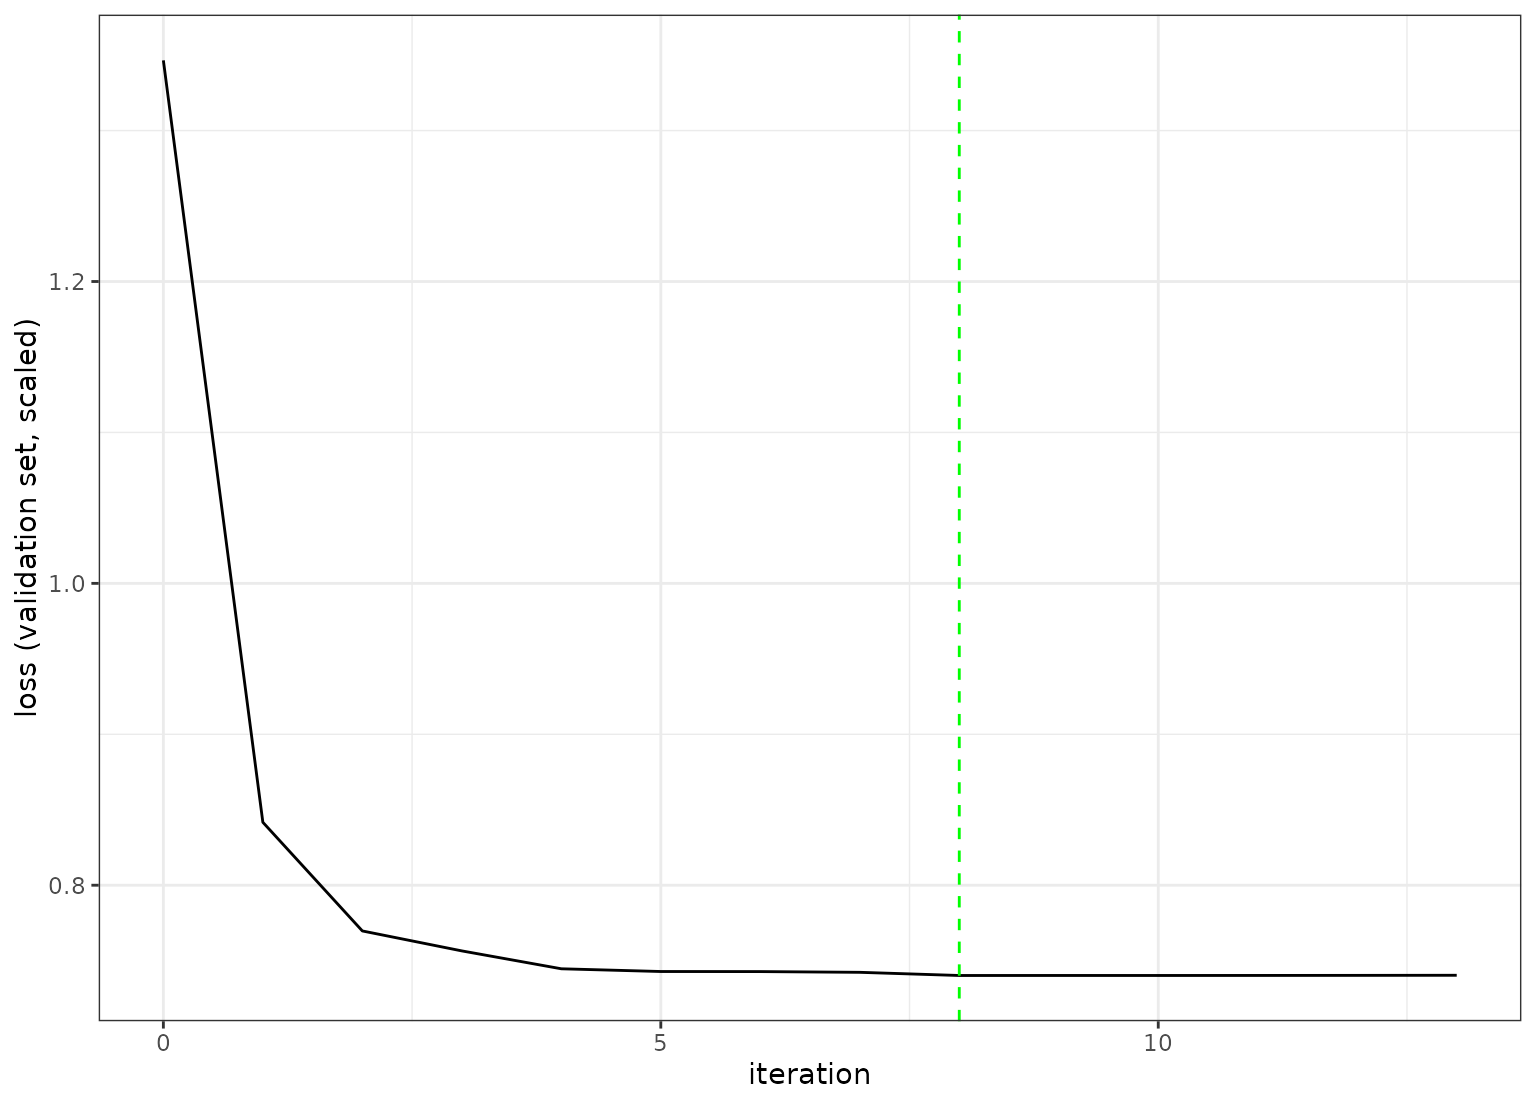
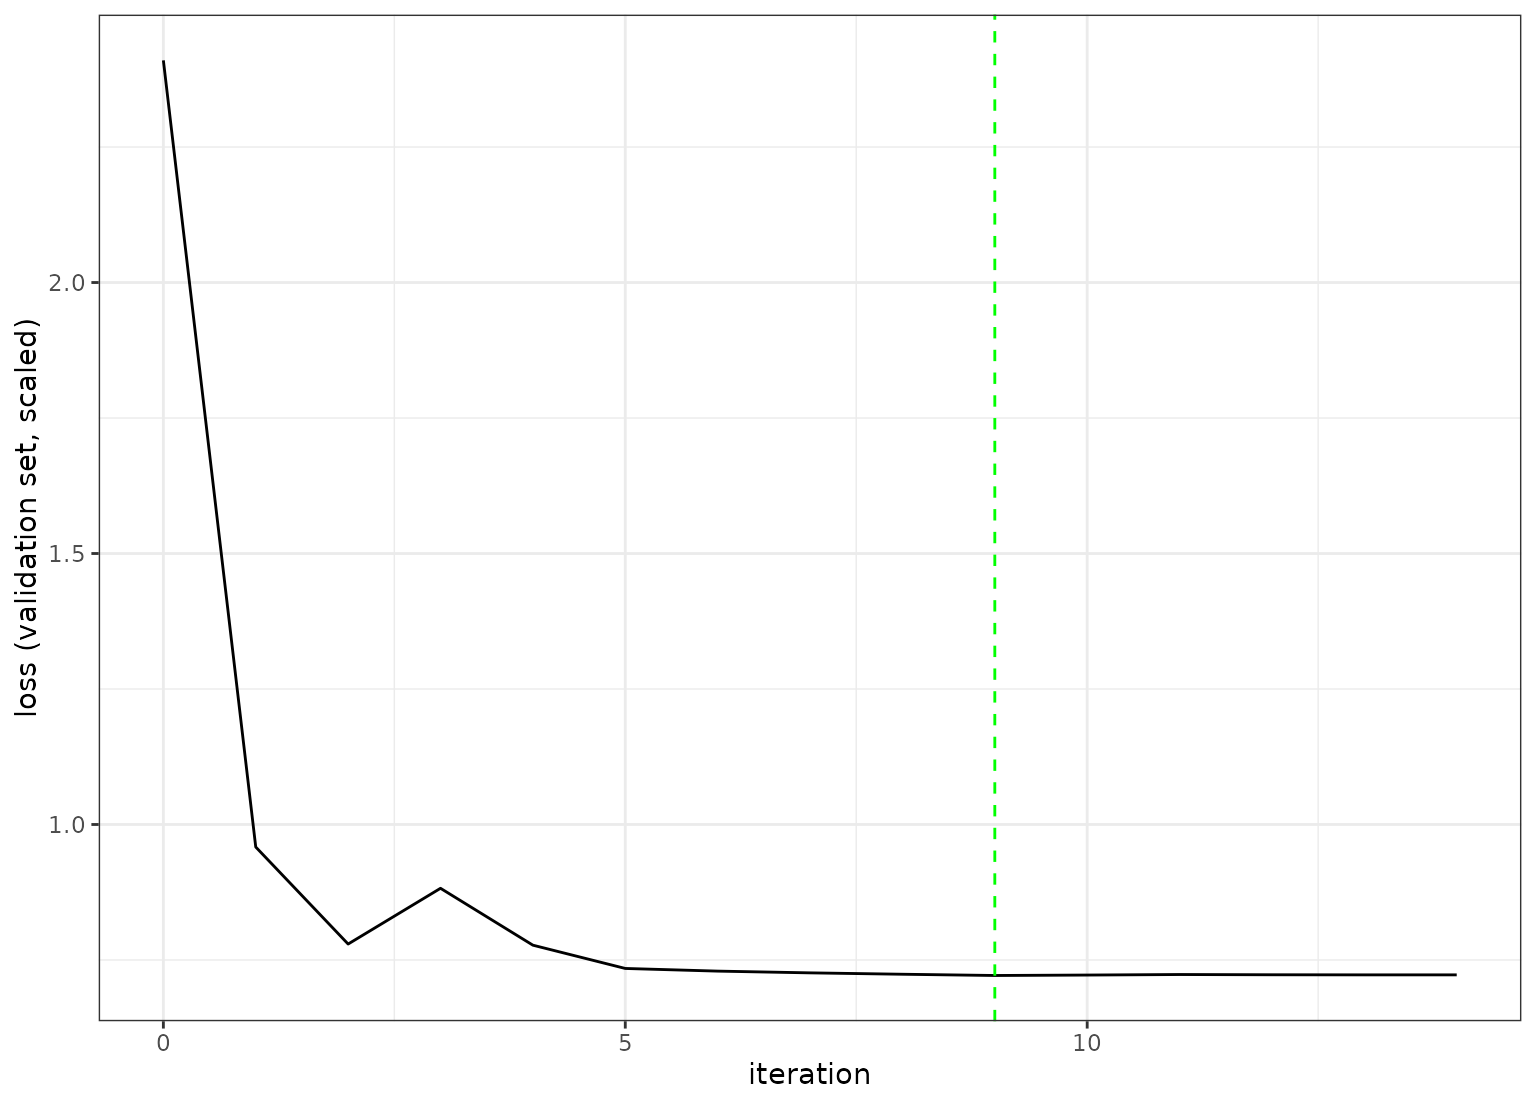
Deploying to gh-pages from @ tidymodels/brulee@075b80f6621c965b2db66e2a66ebcdbf1e8842ae 🚀

diff --git a/reference/brulee_saint.html b/reference/brulee_saint.html
@@ -491,32 +491,23 @@ arXiv:2106.01342.</p>
 <span class="r-in"><span>  <span class="fu"><a href="https://yardstick.tidymodels.org/reference/rsq.html" class="external-link">rsq</a></span><span class="op">(</span><span class="va">outcome</span>, <span class="va">.pred</span><span class="op">)</span></span></span>
 <span class="r-in"><span></span></span>
 <span class="r-in"><span><span class="op">}</span></span></span>
-<span class="r-msg co"><span class="r-pr">#&gt;</span> epoch: 00, learn rate: 0.01, Loss (scaled): 0.559</span>
-<span class="r-msg co"><span class="r-pr">#&gt;</span> epoch: 01, learn rate: 0.01, Loss (scaled): 0.299</span>
-<span class="r-msg co"><span class="r-pr">#&gt;</span> epoch: 02, learn rate: 0.01, Loss (scaled): 0.304</span>
-<span class="r-msg co"><span class="r-pr">#&gt;</span> epoch: 03, learn rate: 0.01, Loss (scaled): 0.461</span>
-<span class="r-msg co"><span class="r-pr">#&gt;</span> epoch: 04, learn rate: 0.01, Loss (scaled): 0.424</span>
-<span class="r-msg co"><span class="r-pr">#&gt;</span> epoch: 05, learn rate: 0.01, Loss (scaled): 0.29</span>
-<span class="r-msg co"><span class="r-pr">#&gt;</span> epoch: 06, learn rate: 0.01, Loss (scaled): 0.349</span>
-<span class="r-msg co"><span class="r-pr">#&gt;</span> epoch: 07, learn rate: 0.01, Loss (scaled): 0.298</span>
-<span class="r-msg co"><span class="r-pr">#&gt;</span> epoch: 08, learn rate: 0.01, Loss (scaled): 0.401</span>
-<span class="r-msg co"><span class="r-pr">#&gt;</span> epoch: 09, learn rate: 0.01, Loss (scaled): 0.348</span>
-<span class="r-msg co"><span class="r-pr">#&gt;</span> epoch: 10, learn rate: 0.01, Loss (scaled): 0.268</span>
-<span class="r-msg co"><span class="r-pr">#&gt;</span> epoch: 11, learn rate: 0.01, Loss (scaled): 0.267</span>
-<span class="r-msg co"><span class="r-pr">#&gt;</span> epoch: 12, learn rate: 0.01, Loss (scaled): 0.341</span>
-<span class="r-msg co"><span class="r-pr">#&gt;</span> epoch: 13, learn rate: 0.01, Loss (scaled): 0.23</span>
-<span class="r-msg co"><span class="r-pr">#&gt;</span> epoch: 14, learn rate: 0.01, Loss (scaled): 0.401</span>
+<span class="r-msg co"><span class="r-pr">#&gt;</span> epoch: 00, learn rate: 0.01, Loss (scaled): 0.325</span>
+<span class="r-msg co"><span class="r-pr">#&gt;</span> epoch: 01, learn rate: 0.01, Loss (scaled): 0.622</span>
+<span class="r-msg co"><span class="r-pr">#&gt;</span> epoch: 02, learn rate: 0.01, Loss (scaled): 0.271</span>
+<span class="r-msg co"><span class="r-pr">#&gt;</span> epoch: 03, learn rate: 0.01, Loss (scaled): 0.325</span>
+<span class="r-msg co"><span class="r-pr">#&gt;</span> epoch: 04, learn rate: 0.01, Loss (scaled): 0.283</span>
+<span class="r-msg co"><span class="r-pr">#&gt;</span> epoch: 05, learn rate: 0.01, Loss (scaled): 0.265</span>
+<span class="r-msg co"><span class="r-pr">#&gt;</span> epoch: 06, learn rate: 0.01, Loss (scaled): 0.287</span>
+<span class="r-msg co"><span class="r-pr">#&gt;</span> epoch: 07, learn rate: 0.01, Loss (scaled): 0.294</span>
+<span class="r-msg co"><span class="r-pr">#&gt;</span> epoch: 08, learn rate: 0.01, Loss (scaled): 0.278</span>
+<span class="r-msg co"><span class="r-pr">#&gt;</span> epoch: 09, learn rate: 0.01, Loss (scaled): 0.227</span>
+<span class="r-msg co"><span class="r-pr">#&gt;</span> epoch: 10, learn rate: 0.01, Loss (scaled): 0.302</span>
+<span class="r-msg co"><span class="r-pr">#&gt;</span> epoch: 11, learn rate: 0.01, Loss (scaled): 0.2</span>
+<span class="r-msg co"><span class="r-pr">#&gt;</span> epoch: 12, learn rate: 0.01, Loss (scaled): 0.277</span>
+<span class="r-msg co"><span class="r-pr">#&gt;</span> epoch: 13, learn rate: 0.01, Loss (scaled): 0.268</span>
+<span class="r-msg co"><span class="r-pr">#&gt;</span> epoch: 14, learn rate: 0.01, Loss (scaled): 1.06</span>
 <span class="r-msg co"><span class="r-pr">#&gt;</span> epoch: 15, learn rate: 0.01, Loss (scaled): 0.288</span>
-<span class="r-msg co"><span class="r-pr">#&gt;</span> epoch: 16, learn rate: 0.01, Loss (scaled): 0.198</span>
-<span class="r-msg co"><span class="r-pr">#&gt;</span> epoch: 17, learn rate: 0.01, Loss (scaled): 0.638</span>
-<span class="r-msg co"><span class="r-pr">#&gt;</span> epoch: 18, learn rate: 0.01, Loss (scaled): 0.398</span>
-<span class="r-msg co"><span class="r-pr">#&gt;</span> epoch: 19, learn rate: 0.01, Loss (scaled): 0.167</span>
-<span class="r-msg co"><span class="r-pr">#&gt;</span> epoch: 20, learn rate: 0.01, Loss (scaled): 0.165</span>
-<span class="r-msg co"><span class="r-pr">#&gt;</span> epoch: 21, learn rate: 0.01, Loss (scaled): 0.31</span>
-<span class="r-msg co"><span class="r-pr">#&gt;</span> epoch: 22, learn rate: 0.01, Loss (scaled): 0.25</span>
-<span class="r-msg co"><span class="r-pr">#&gt;</span> epoch: 23, learn rate: 0.01, Loss (scaled): 0.397</span>
-<span class="r-msg co"><span class="r-pr">#&gt;</span> epoch: 24, learn rate: 0.01, Loss (scaled): 0.747</span>
-<span class="r-msg co"><span class="r-pr">#&gt;</span> epoch: 25, learn rate: 0.01, Loss (scaled): 0.233</span>
+<span class="r-msg co"><span class="r-pr">#&gt;</span> epoch: 16, learn rate: 0.01, Loss (scaled): 0.234</span>
 <span class="r-out co"><span class="r-pr">#&gt;</span> <span style="font-weight: bold;">SAINT architecture</span></span>
 <span class="r-out co"><span class="r-pr">#&gt;</span> inputs: 8 (0 categorical, 8 numeric) | output dim: 1</span>
 <span class="r-out co"><span class="r-pr">#&gt;</span> attention: both | embedding dim: 3</span>
@@ -581,7 +572,7 @@ arXiv:2106.01342.</p>
 <span class="r-out co"><span class="r-pr">#&gt;</span> <span style="color: #949494;"># A tibble: 1 × 3</span></span>
 <span class="r-out co"><span class="r-pr">#&gt;</span>   .metric .estimator .estimate</span>
 <span class="r-out co"><span class="r-pr">#&gt;</span>   <span style="color: #949494; font-style: italic;">&lt;chr&gt;</span>   <span style="color: #949494; font-style: italic;">&lt;chr&gt;</span>          <span style="color: #949494; font-style: italic;">&lt;dbl&gt;</span></span>
-<span class="r-out co"><span class="r-pr">#&gt;</span> <span style="color: #BCBCBC;">1</span> rsq     standard       0.540</span>
+<span class="r-out co"><span class="r-pr">#&gt;</span> <span style="color: #BCBCBC;">1</span> rsq     standard       0.557</span>
 <span class="r-in"><span><span class="co"># }</span></span></span>
 </code></pre></div>
     </div>

diff --git a/reference/predict.brulee_auto_int.html b/reference/predict.brulee_auto_int.html
@@ -102,16 +102,16 @@ to be the same as the number of rows in <code>new_data</code>.</p>
 <span class="r-out co"><span class="r-pr">#&gt;</span> <span style="color: #949494;"># A tibble: 50 × 2</span></span>
 <span class="r-out co"><span class="r-pr">#&gt;</span>    .pred_class_1 .pred_class_2</span>
 <span class="r-out co"><span class="r-pr">#&gt;</span>            <span style="color: #949494; font-style: italic;">&lt;dbl&gt;</span>         <span style="color: #949494; font-style: italic;">&lt;dbl&gt;</span></span>
-<span class="r-out co"><span class="r-pr">#&gt;</span> <span style="color: #BCBCBC;"> 1</span>      0.799        0.201    </span>
-<span class="r-out co"><span class="r-pr">#&gt;</span> <span style="color: #BCBCBC;"> 2</span>      0.991        0.008<span style="text-decoration: underline;">78</span>  </span>
-<span class="r-out co"><span class="r-pr">#&gt;</span> <span style="color: #BCBCBC;"> 3</span>      0.207        0.793    </span>
-<span class="r-out co"><span class="r-pr">#&gt;</span> <span style="color: #BCBCBC;"> 4</span>      0.000<span style="text-decoration: underline;">580</span>     0.999    </span>
-<span class="r-out co"><span class="r-pr">#&gt;</span> <span style="color: #BCBCBC;"> 5</span>      0.249        0.751    </span>
-<span class="r-out co"><span class="r-pr">#&gt;</span> <span style="color: #BCBCBC;"> 6</span>      0.014<span style="text-decoration: underline;">0</span>       0.986    </span>
-<span class="r-out co"><span class="r-pr">#&gt;</span> <span style="color: #BCBCBC;"> 7</span>      0.105        0.895    </span>
-<span class="r-out co"><span class="r-pr">#&gt;</span> <span style="color: #BCBCBC;"> 8</span>      0.017<span style="text-decoration: underline;">8</span>       0.982    </span>
-<span class="r-out co"><span class="r-pr">#&gt;</span> <span style="color: #BCBCBC;"> 9</span>      1.000        0.000<span style="text-decoration: underline;">069</span>8</span>
-<span class="r-out co"><span class="r-pr">#&gt;</span> <span style="color: #BCBCBC;">10</span>      0.268        0.732    </span>
+<span class="r-out co"><span class="r-pr">#&gt;</span> <span style="color: #BCBCBC;"> 1</span>       0.680         0.320  </span>
+<span class="r-out co"><span class="r-pr">#&gt;</span> <span style="color: #BCBCBC;"> 2</span>       0.953         0.046<span style="text-decoration: underline;">5</span> </span>
+<span class="r-out co"><span class="r-pr">#&gt;</span> <span style="color: #BCBCBC;"> 3</span>       0.407         0.593  </span>
+<span class="r-out co"><span class="r-pr">#&gt;</span> <span style="color: #BCBCBC;"> 4</span>       0.008<span style="text-decoration: underline;">16</span>       0.992  </span>
+<span class="r-out co"><span class="r-pr">#&gt;</span> <span style="color: #BCBCBC;"> 5</span>       0.275         0.725  </span>
+<span class="r-out co"><span class="r-pr">#&gt;</span> <span style="color: #BCBCBC;"> 6</span>       0.033<span style="text-decoration: underline;">7</span>        0.966  </span>
+<span class="r-out co"><span class="r-pr">#&gt;</span> <span style="color: #BCBCBC;"> 7</span>       0.064<span style="text-decoration: underline;">4</span>        0.936  </span>
+<span class="r-out co"><span class="r-pr">#&gt;</span> <span style="color: #BCBCBC;"> 8</span>       0.078<span style="text-decoration: underline;">3</span>        0.922  </span>
+<span class="r-out co"><span class="r-pr">#&gt;</span> <span style="color: #BCBCBC;"> 9</span>       0.995         0.005<span style="text-decoration: underline;">18</span></span>
+<span class="r-out co"><span class="r-pr">#&gt;</span> <span style="color: #BCBCBC;">10</span>       0.719         0.281  </span>
 <span class="r-out co"><span class="r-pr">#&gt;</span> <span style="color: #949494;"># ℹ 40 more rows</span></span>
 <span class="r-in"><span><span class="co"># }</span></span></span>
 </code></pre></div>

diff --git a/reference/predict.brulee_mlp.html b/reference/predict.brulee_mlp.html
@@ -109,16 +109,16 @@ to be the same as the number of rows in <code>new_data</code>.</p>
 <span class="r-out co"><span class="r-pr">#&gt;</span> <span style="color: #949494;"># A tibble: 930 × 1</span></span>
 <span class="r-out co"><span class="r-pr">#&gt;</span>    .pred</span>
 <span class="r-out co"><span class="r-pr">#&gt;</span>    <span style="color: #949494; font-style: italic;">&lt;dbl&gt;</span></span>
-<span class="r-out co"><span class="r-pr">#&gt;</span> <span style="color: #BCBCBC;"> 1</span>  5.17</span>
-<span class="r-out co"><span class="r-pr">#&gt;</span> <span style="color: #BCBCBC;"> 2</span>  5.29</span>
-<span class="r-out co"><span class="r-pr">#&gt;</span> <span style="color: #BCBCBC;"> 3</span>  5.29</span>
-<span class="r-out co"><span class="r-pr">#&gt;</span> <span style="color: #BCBCBC;"> 4</span>  5.23</span>
-<span class="r-out co"><span class="r-pr">#&gt;</span> <span style="color: #BCBCBC;"> 5</span>  5.27</span>
-<span class="r-out co"><span class="r-pr">#&gt;</span> <span style="color: #BCBCBC;"> 6</span>  5.25</span>
-<span class="r-out co"><span class="r-pr">#&gt;</span> <span style="color: #BCBCBC;"> 7</span>  5.21</span>
-<span class="r-out co"><span class="r-pr">#&gt;</span> <span style="color: #BCBCBC;"> 8</span>  5.21</span>
-<span class="r-out co"><span class="r-pr">#&gt;</span> <span style="color: #BCBCBC;"> 9</span>  5.22</span>
-<span class="r-out co"><span class="r-pr">#&gt;</span> <span style="color: #BCBCBC;">10</span>  5.21</span>
+<span class="r-out co"><span class="r-pr">#&gt;</span> <span style="color: #BCBCBC;"> 1</span>  5.28</span>
+<span class="r-out co"><span class="r-pr">#&gt;</span> <span style="color: #BCBCBC;"> 2</span>  5.27</span>
+<span class="r-out co"><span class="r-pr">#&gt;</span> <span style="color: #BCBCBC;"> 3</span>  5.27</span>
+<span class="r-out co"><span class="r-pr">#&gt;</span> <span style="color: #BCBCBC;"> 4</span>  5.34</span>
+<span class="r-out co"><span class="r-pr">#&gt;</span> <span style="color: #BCBCBC;"> 5</span>  5.26</span>
+<span class="r-out co"><span class="r-pr">#&gt;</span> <span style="color: #BCBCBC;"> 6</span>  5.24</span>
+<span class="r-out co"><span class="r-pr">#&gt;</span> <span style="color: #BCBCBC;"> 7</span>  5.26</span>
+<span class="r-out co"><span class="r-pr">#&gt;</span> <span style="color: #BCBCBC;"> 8</span>  5.24</span>
+<span class="r-out co"><span class="r-pr">#&gt;</span> <span style="color: #BCBCBC;"> 9</span>  5.23</span>
+<span class="r-out co"><span class="r-pr">#&gt;</span> <span style="color: #BCBCBC;">10</span>  5.19</span>
 <span class="r-out co"><span class="r-pr">#&gt;</span> <span style="color: #949494;"># ℹ 920 more rows</span></span>
 <span class="r-in"><span><span class="co"># }</span></span></span>
 </code></pre></div>

diff --git a/reference/predict.brulee_saint.html b/reference/predict.brulee_saint.html
@@ -101,16 +101,16 @@ to be the same as the number of rows in <code>new_data</code>.</p>
 <span class="r-out co"><span class="r-pr">#&gt;</span> <span style="color: #949494;"># A tibble: 50 × 2</span></span>
 <span class="r-out co"><span class="r-pr">#&gt;</span>    .pred_class_1 .pred_class_2</span>
 <span class="r-out co"><span class="r-pr">#&gt;</span>            <span style="color: #949494; font-style: italic;">&lt;dbl&gt;</span>         <span style="color: #949494; font-style: italic;">&lt;dbl&gt;</span></span>
-<span class="r-out co"><span class="r-pr">#&gt;</span> <span style="color: #BCBCBC;"> 1</span>         0.467         0.533</span>
-<span class="r-out co"><span class="r-pr">#&gt;</span> <span style="color: #BCBCBC;"> 2</span>         0.467         0.533</span>
-<span class="r-out co"><span class="r-pr">#&gt;</span> <span style="color: #BCBCBC;"> 3</span>         0.467         0.533</span>
-<span class="r-out co"><span class="r-pr">#&gt;</span> <span style="color: #BCBCBC;"> 4</span>         0.467         0.533</span>
-<span class="r-out co"><span class="r-pr">#&gt;</span> <span style="color: #BCBCBC;"> 5</span>         0.467         0.533</span>
-<span class="r-out co"><span class="r-pr">#&gt;</span> <span style="color: #BCBCBC;"> 6</span>         0.467         0.533</span>
-<span class="r-out co"><span class="r-pr">#&gt;</span> <span style="color: #BCBCBC;"> 7</span>         0.467         0.533</span>
-<span class="r-out co"><span class="r-pr">#&gt;</span> <span style="color: #BCBCBC;"> 8</span>         0.467         0.533</span>
-<span class="r-out co"><span class="r-pr">#&gt;</span> <span style="color: #BCBCBC;"> 9</span>         0.467         0.533</span>
-<span class="r-out co"><span class="r-pr">#&gt;</span> <span style="color: #BCBCBC;">10</span>         0.467         0.533</span>
+<span class="r-out co"><span class="r-pr">#&gt;</span> <span style="color: #BCBCBC;"> 1</span>         0.446         0.554</span>
+<span class="r-out co"><span class="r-pr">#&gt;</span> <span style="color: #BCBCBC;"> 2</span>         0.454         0.546</span>
+<span class="r-out co"><span class="r-pr">#&gt;</span> <span style="color: #BCBCBC;"> 3</span>         0.432         0.568</span>
+<span class="r-out co"><span class="r-pr">#&gt;</span> <span style="color: #BCBCBC;"> 4</span>         0.454         0.546</span>
+<span class="r-out co"><span class="r-pr">#&gt;</span> <span style="color: #BCBCBC;"> 5</span>         0.454         0.546</span>
+<span class="r-out co"><span class="r-pr">#&gt;</span> <span style="color: #BCBCBC;"> 6</span>         0.454         0.546</span>
+<span class="r-out co"><span class="r-pr">#&gt;</span> <span style="color: #BCBCBC;"> 7</span>         0.442         0.558</span>
+<span class="r-out co"><span class="r-pr">#&gt;</span> <span style="color: #BCBCBC;"> 8</span>         0.446         0.554</span>
+<span class="r-out co"><span class="r-pr">#&gt;</span> <span style="color: #BCBCBC;"> 9</span>         0.454         0.546</span>
+<span class="r-out co"><span class="r-pr">#&gt;</span> <span style="color: #BCBCBC;">10</span>         0.459         0.541</span>
 <span class="r-out co"><span class="r-pr">#&gt;</span> <span style="color: #949494;"># ℹ 40 more rows</span></span>
 <span class="r-in"><span><span class="co"># }</span></span></span>
 </code></pre></div>

diff --git a/reference/predict.brulee_resnet.html b/reference/predict.brulee_resnet.html
@@ -111,16 +111,16 @@ to be the same as the number of rows in <code>new_data</code>.</p>
 <span class="r-out co"><span class="r-pr">#&gt;</span> <span style="color: #949494;"># A tibble: 930 × 1</span></span>
 <span class="r-out co"><span class="r-pr">#&gt;</span>    .pred</span>
 <span class="r-out co"><span class="r-pr">#&gt;</span>    <span style="color: #949494; font-style: italic;">&lt;dbl&gt;</span></span>
-<span class="r-out co"><span class="r-pr">#&gt;</span> <span style="color: #BCBCBC;"> 1</span>  5.21</span>
+<span class="r-out co"><span class="r-pr">#&gt;</span> <span style="color: #BCBCBC;"> 1</span>  5.19</span>
 <span class="r-out co"><span class="r-pr">#&gt;</span> <span style="color: #BCBCBC;"> 2</span>  5.30</span>
-<span class="r-out co"><span class="r-pr">#&gt;</span> <span style="color: #BCBCBC;"> 3</span>  5.29</span>
+<span class="r-out co"><span class="r-pr">#&gt;</span> <span style="color: #BCBCBC;"> 3</span>  5.30</span>
 <span class="r-out co"><span class="r-pr">#&gt;</span> <span style="color: #BCBCBC;"> 4</span>  5.23</span>
-<span class="r-out co"><span class="r-pr">#&gt;</span> <span style="color: #BCBCBC;"> 5</span>  5.25</span>
-<span class="r-out co"><span class="r-pr">#&gt;</span> <span style="color: #BCBCBC;"> 6</span>  5.21</span>
+<span class="r-out co"><span class="r-pr">#&gt;</span> <span style="color: #BCBCBC;"> 5</span>  5.26</span>
+<span class="r-out co"><span class="r-pr">#&gt;</span> <span style="color: #BCBCBC;"> 6</span>  5.24</span>
 <span class="r-out co"><span class="r-pr">#&gt;</span> <span style="color: #BCBCBC;"> 7</span>  5.22</span>
 <span class="r-out co"><span class="r-pr">#&gt;</span> <span style="color: #BCBCBC;"> 8</span>  5.22</span>
-<span class="r-out co"><span class="r-pr">#&gt;</span> <span style="color: #BCBCBC;"> 9</span>  5.22</span>
-<span class="r-out co"><span class="r-pr">#&gt;</span> <span style="color: #BCBCBC;">10</span>  5.21</span>
+<span class="r-out co"><span class="r-pr">#&gt;</span> <span style="color: #BCBCBC;"> 9</span>  5.23</span>
+<span class="r-out co"><span class="r-pr">#&gt;</span> <span style="color: #BCBCBC;">10</span>  5.22</span>
 <span class="r-out co"><span class="r-pr">#&gt;</span> <span style="color: #949494;"># ℹ 920 more rows</span></span>
 <span class="r-in"><span><span class="co"># }</span></span></span>
 </code></pre></div>

diff --git a/news/index.html b/news/index.html
@@ -39,7 +39,13 @@
 <li><p>AutoInt (<code><a href="../reference/brulee_auto_int.html">brulee_auto_int()</a></code>) uses residual connections and columnwise attention mechanisms to create embeddings that encourage in-context learning of features.</p></li>
 <li><p>Saint (<code><a href="../reference/brulee_saint.html">brulee_saint()</a></code>) uses column and/or row attention mechanisms.</p></li>
 <li><p>All modeling functions now support GPU acceleration via the <code>device</code> parameter. Users can specify <code>device = "cpu"</code>, <code>device = "cuda"</code>, or <code>device = "mps"</code> (Apple Silicon). When <code>device = NULL</code> (default), the package automatically selects CUDA if available, otherwise defaults to CPU. Note: MPS is not auto-selected because it doesn’t support float64 dtype required by brulee. See<code><a href="../reference/training_efficiency.html">?training_efficiency</a></code> for some related notes.</p></li>
+</ul><div class="section level3">
+<h3 id="breaking-changes-0-7-0">Breaking Changes<a class="anchor" aria-label="anchor" href="#breaking-changes-0-7-0"></a></h3>
+<ul><li><p>Float tensors were changed from 64-bit floats to 32-bit. This is to enable GPU usage on MPS devices.</p></li>
+<li><p>Parameters are initialized on CPU devices and then converted to the chosen device. In some cases, the RGN initialization code is independent of the seed.</p></li>
+<li><p>For classification, the softmax was moved out of every model’s forward pass so the loss can use <code><a href="https://torch.mlverse.org/docs/reference/nnf_cross_entropy.html" class="external-link">torch::nnf_cross_entropy()</a></code> (which applies the log-sum-exp trick internally) instead of <code>nll_loss(log(softmax(x)))</code>. This avoids <code>log(0)</code> underflow that produced <code>NaN</code> losses and “numerical overflow” early stopping on overspecified <code><a href="../reference/brulee_saint.html">brulee_saint()</a></code> / <code><a href="../reference/brulee_auto_int.html">brulee_auto_int()</a></code> fits. Affects <code><a href="../reference/brulee_mlp.html">brulee_mlp()</a></code>, <code><a href="../reference/brulee_logistic_reg.html">brulee_logistic_reg()</a></code>, <code><a href="../reference/brulee_multinomial_reg.html">brulee_multinomial_reg()</a></code>, <code><a href="../reference/brulee_resnet.html">brulee_resnet()</a></code>, <code><a href="../reference/brulee_auto_int.html">brulee_auto_int()</a></code>, and <code><a href="../reference/brulee_saint.html">brulee_saint()</a></code>. New fits carry <code>output_type = "logits"</code> so the predict path applies softmax; serialized fits from earlier versions of brulee continue to predict correctly.</p></li>
 </ul></div>
+</div>
     <div class="section level2">
 <h2 class="pkg-version" data-toc-text="0.6.0" id="brulee-060">brulee 0.6.0<a class="anchor" aria-label="anchor" href="#brulee-060"></a></h2><p class="text-muted">CRAN release: 2025-09-02</p>
 <ul><li><p>Transition from the magrittr pipe to the base R pipe.</p></li>

diff --git a/reference/predict.brulee_rln.html b/reference/predict.brulee_rln.html
@@ -101,13 +101,13 @@ If <code>NULL</code> (default), the epoch with the smallest loss is used.</p></d
 <span class="r-out co"><span class="r-pr">#&gt;</span> <span style="color: #949494;"># A tibble: 930 × 1</span></span>
 <span class="r-out co"><span class="r-pr">#&gt;</span>    .pred</span>
 <span class="r-out co"><span class="r-pr">#&gt;</span>    <span style="color: #949494; font-style: italic;">&lt;dbl&gt;</span></span>
-<span class="r-out co"><span class="r-pr">#&gt;</span> <span style="color: #BCBCBC;"> 1</span>  5.20</span>
+<span class="r-out co"><span class="r-pr">#&gt;</span> <span style="color: #BCBCBC;"> 1</span>  5.19</span>
 <span class="r-out co"><span class="r-pr">#&gt;</span> <span style="color: #BCBCBC;"> 2</span>  5.36</span>
 <span class="r-out co"><span class="r-pr">#&gt;</span> <span style="color: #BCBCBC;"> 3</span>  5.36</span>
-<span class="r-out co"><span class="r-pr">#&gt;</span> <span style="color: #BCBCBC;"> 4</span>  5.28</span>
+<span class="r-out co"><span class="r-pr">#&gt;</span> <span style="color: #BCBCBC;"> 4</span>  5.27</span>
 <span class="r-out co"><span class="r-pr">#&gt;</span> <span style="color: #BCBCBC;"> 5</span>  5.29</span>
 <span class="r-out co"><span class="r-pr">#&gt;</span> <span style="color: #BCBCBC;"> 6</span>  5.24</span>
-<span class="r-out co"><span class="r-pr">#&gt;</span> <span style="color: #BCBCBC;"> 7</span>  5.23</span>
+<span class="r-out co"><span class="r-pr">#&gt;</span> <span style="color: #BCBCBC;"> 7</span>  5.22</span>
 <span class="r-out co"><span class="r-pr">#&gt;</span> <span style="color: #BCBCBC;"> 8</span>  5.22</span>
 <span class="r-out co"><span class="r-pr">#&gt;</span> <span style="color: #BCBCBC;"> 9</span>  5.24</span>
 <span class="r-out co"><span class="r-pr">#&gt;</span> <span style="color: #BCBCBC;">10</span>  5.21</span>

diff --git a/reference/brulee_mlp.html b/reference/brulee_mlp.html
@@ -579,12 +579,11 @@ regularization. arXiv preprint arXiv:1711.05101.</p>
 <span class="r-in"><span></span></span>
 <span class="r-in"><span> <span class="op">}</span></span></span>
 <span class="r-out co"><span class="r-pr">#&gt;</span> <span style="font-weight: bold;">Multilayer perceptron architecture</span></span>
-<span class="r-out co"><span class="r-pr">#&gt;</span> inputs: 2 | output dim: 2 | components: 4</span>
+<span class="r-out co"><span class="r-pr">#&gt;</span> inputs: 2 | output dim: 2 | components: 3</span>
 <span class="r-out co"><span class="r-pr">#&gt;</span> </span>
 <span class="r-out co"><span class="r-pr">#&gt;</span>   Linear(2 -&gt; 2)                        6 params</span>
 <span class="r-out co"><span class="r-pr">#&gt;</span>   ELU                                   0 params</span>
 <span class="r-out co"><span class="r-pr">#&gt;</span>   Linear(2 -&gt; 2)                        6 params</span>
-<span class="r-out co"><span class="r-pr">#&gt;</span>   Softmax                               0 params</span>
 <span class="r-out co"><span class="r-pr">#&gt;</span> </span>
 <span class="r-out co"><span class="r-pr">#&gt;</span> <span style="font-weight: bold;">Total parameters: </span>12</span>
 <span class="r-plt img"><img src="brulee_mlp-1.png" alt="" width="768" height="552"></span>

diff --git a/reference/brulee-coefs.html b/reference/brulee-coefs.html
@@ -108,7 +108,7 @@ a list of arrays.</p>
 <span class="r-in"><span> <span class="fu"><a href="https://rdrr.io/r/stats/coef.html" class="external-link">coef</a></span><span class="op">(</span><span class="va">fit</span>, epoch <span class="op">=</span> <span class="fl">1</span><span class="op">)</span></span></span>
 <span class="r-in"><span><span class="op">}</span></span></span>
 <span class="r-out co"><span class="r-pr">#&gt;</span> (Intercept)   Longitude    Latitude </span>
-<span class="r-out co"><span class="r-pr">#&gt;</span>  5.22474902 -0.05370508  0.05003856 </span>
+<span class="r-out co"><span class="r-pr">#&gt;</span>  5.22475100 -0.05370786  0.05004638 </span>
 <span class="r-in"><span><span class="co"># }</span></span></span>
 </code></pre></div>
     </div>

diff --git a/reference/brulee_auto_int.html b/reference/brulee_auto_int.html
@@ -487,7 +487,7 @@ Information and Knowledge Management (CIKM)</em>.</p>
 <span class="r-out co"><span class="r-pr">#&gt;</span> <span style="color: #949494;"># A tibble: 1 × 3</span></span>
 <span class="r-out co"><span class="r-pr">#&gt;</span>   .metric .estimator .estimate</span>
 <span class="r-out co"><span class="r-pr">#&gt;</span>   <span style="color: #949494; font-style: italic;">&lt;chr&gt;</span>   <span style="color: #949494; font-style: italic;">&lt;chr&gt;</span>          <span style="color: #949494; font-style: italic;">&lt;dbl&gt;</span></span>
-<span class="r-out co"><span class="r-pr">#&gt;</span> <span style="color: #BCBCBC;">1</span> rmse    standard        16.5</span>
+<span class="r-out co"><span class="r-pr">#&gt;</span> <span style="color: #BCBCBC;">1</span> rmse    standard        13.2</span>
 <span class="r-in"><span><span class="co"># }</span></span></span>
 </code></pre></div>
     </div>

diff --git a/reference/brulee_logistic_reg.html b/reference/brulee_logistic_reg.html
@@ -313,8 +313,6 @@ used in those packages.</p>
 <span class="r-in"><span>  <span class="fu"><a href="https://dplyr.tidyverse.org/reference/bind_cols.html" class="external-link">bind_cols</a></span><span class="op">(</span><span class="va">cells_test</span><span class="op">)</span> <span class="op">|&gt;</span></span></span>
 <span class="r-in"><span>  <span class="fu"><a href="https://yardstick.tidymodels.org/reference/roc_auc.html" class="external-link">roc_auc</a></span><span class="op">(</span><span class="va">class</span>, <span class="va">.pred_PS</span><span class="op">)</span></span></span>
 <span class="r-in"><span><span class="op">}</span></span></span>
-<span class="r-wrn co"><span class="r-pr">#&gt;</span> <span class="warning">Warning: </span>Early stopping occurred at epoch 1 due to numerical overflow of the</span>
-<span class="r-wrn co"><span class="r-pr">#&gt;</span> loss function.</span>
 <span class="r-out co"><span class="r-pr">#&gt;</span> <span style="color: #949494;"># A tibble: 1 × 3</span></span>
 <span class="r-out co"><span class="r-pr">#&gt;</span>   .metric .estimator .estimate</span>
 <span class="r-out co"><span class="r-pr">#&gt;</span>   <span style="color: #949494; font-style: italic;">&lt;chr&gt;</span>   <span style="color: #949494; font-style: italic;">&lt;chr&gt;</span>          <span style="color: #949494; font-style: italic;">&lt;dbl&gt;</span></span>

diff --git a/reference/brulee_resnet.html b/reference/brulee_resnet.html
@@ -500,7 +500,7 @@ the IEEE conference on computer vision and pattern recognition</em> (pp.
 <span class="r-out co"><span class="r-pr">#&gt;</span> <span style="color: #949494;"># A tibble: 1 × 3</span></span>
 <span class="r-out co"><span class="r-pr">#&gt;</span>   .metric .estimator .estimate</span>
 <span class="r-out co"><span class="r-pr">#&gt;</span>   <span style="color: #949494; font-style: italic;">&lt;chr&gt;</span>   <span style="color: #949494; font-style: italic;">&lt;chr&gt;</span>          <span style="color: #949494; font-style: italic;">&lt;dbl&gt;</span></span>
-<span class="r-out co"><span class="r-pr">#&gt;</span> <span style="color: #BCBCBC;">1</span> roc_auc binary         0.956</span>
+<span class="r-out co"><span class="r-pr">#&gt;</span> <span style="color: #BCBCBC;">1</span> roc_auc binary         0.951</span>
 <span class="r-in"><span><span class="co"># }</span></span></span>
 </code></pre></div>
     </div>